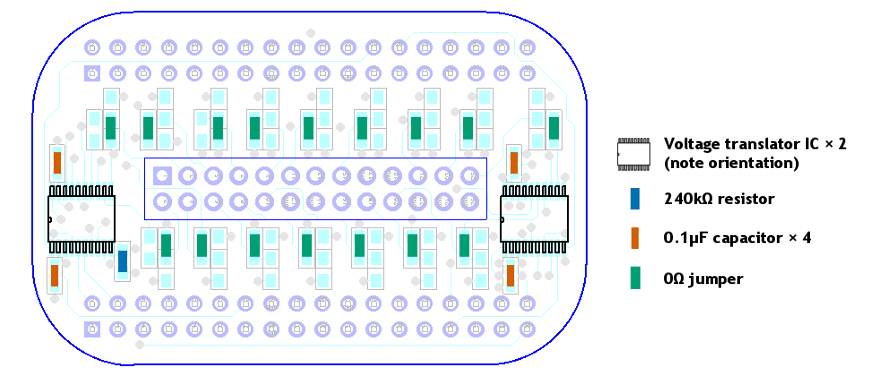
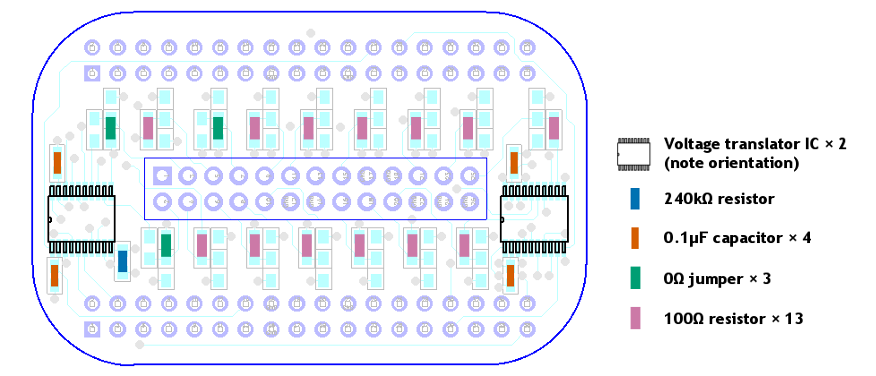
Add 100Ω inline terminating resistors to most Aphid signal lines.

diff --git a/aphid/README.md b/aphid/README.md
@@ -362,8 +362,8 @@ http://processors.wiki.ti.com/index.php/PRU-ICSS) ("PRUs" for short) to achieve
 a dependable implementation of the Apple parallel port hard drive protocol.
 Like the I/O subsystems on modern PCs or the [channel controllers](
 https://en.wikipedia.org/wiki/Channel_I/O) on mainframes of yore, the PRUs
-units handle the timing-sensitive low-level details of the protocol so that the
-main processor can handle its various custodial tasks on its own schedule.
+handle the timing-sensitive low-level details of the protocol so that the main
+processor can attend to various custodial tasks on its own schedule.
 
 The PocketBeagle's [AM3358 SoC](http://www.ti.com/product/AM3358) includes two
 PRUs. Each PRU has a different pattern of direct connectivity to the pins of
@@ -428,13 +428,13 @@ Potential future improvements and new features for Cameo/Aphid include:
     enclosed drive bay, even though a Lisa powering down can shut down internal
     hard drives without warning.
 
-  - :soon:
+  - :heavy_check_mark:
     The longer ribbon cable that the 2/10 uses to connect to the Widget in the
     drive bay causes signal quality issues that can lead to malfunctions,
     likely due to ringing or reflections that can confuse the TXS0108E level
-    adaptor ICs about signal direction. Current investigation on a breakout
-    board suggests that substituting 100Ω resistors for the 0Ω jumpers on all
-    Cameo signal lines except PEX1, PEX2, and PEX3 will dampen the ringing well     enough for Cameo/Aphid to work.
+    adaptor ICs about signal direction. Inline 100Ω terminating resistors on all
+    Cameo signal lines except PEX1, PEX2, and PEX3 appears to dampen the ringing
+    well enough for Cameo/Aphid to work.
   
   - :x:
     When Cameo/Aphid and a Lisa 2/10 are powered on at the same time, the Lisa
@@ -540,3 +540,6 @@ SD card longevity (Tom Stepleton)
 - SD card longevity: only sync disk image changes every four seconds.
 
 20 October 2018: Update to the BeagleBoard.org 2018-10-07 Debian 9.5 image.
+
+7 December 2018: Inline 100Ω terminating resistors on signal lines for improved
+performance with longer cables.

diff --git a/README.md b/README.md
@@ -74,16 +74,17 @@ for informational purposes only; many are likely out-of-date):
 * One 2x13 0.1" pitch pin header ([e.g.](https://www.digikey.com/short/jr9439);
   plastic shroud at your discretion; $0.30)
 * Two 2x18 0.1" pitch pin headers ([e.g.](https://www.digikey.com/short/jr94b9);
-  $0.66 each)
+  $0.69 each)
 * Two 2x18 0.1" pitch sockets ([e.g.](https://www.digikey.com/short/jr94rq);
   $2.06 each)
 * microSD memory card, 4GB or more, class 10 or better ($7 or so)
-* Jumper and termination 0603 surface-mount components as required by your
-  application (assuming just one 0Ω jumper ([e.g.](
-  https://www.digikey.com/short/jr9m80)) per I/O pin, $0.85 for all 16; free
-  if you make your own from scrap wire)
+* Jumper and termination 0603 surface-mount components for I/O pins as required
+  by your application (assuming the [Aphid](aphid/) configuration with 3 0Ω
+  jumpers ([e.g.](https://www.digikey.com/short/jr9m80)) and 13 100Ω inline
+  terminating resistors ([e.g.](https://www.digikey.com/short/j1rr2w)), $0.53
+  altogether; jumpers are free if you make your own from scrap wire)
 
-costing $52.41 in total. If you are willing to bond the PocketBeagle and Cameo
+costing $52.15 in total. If you are willing to bond the PocketBeagle and Cameo
 together permanently, you can omit the 2x18 sockets and save a bit over $4.
 
 Some applications may benefit from adapting the 26-pin header on the bottom of
